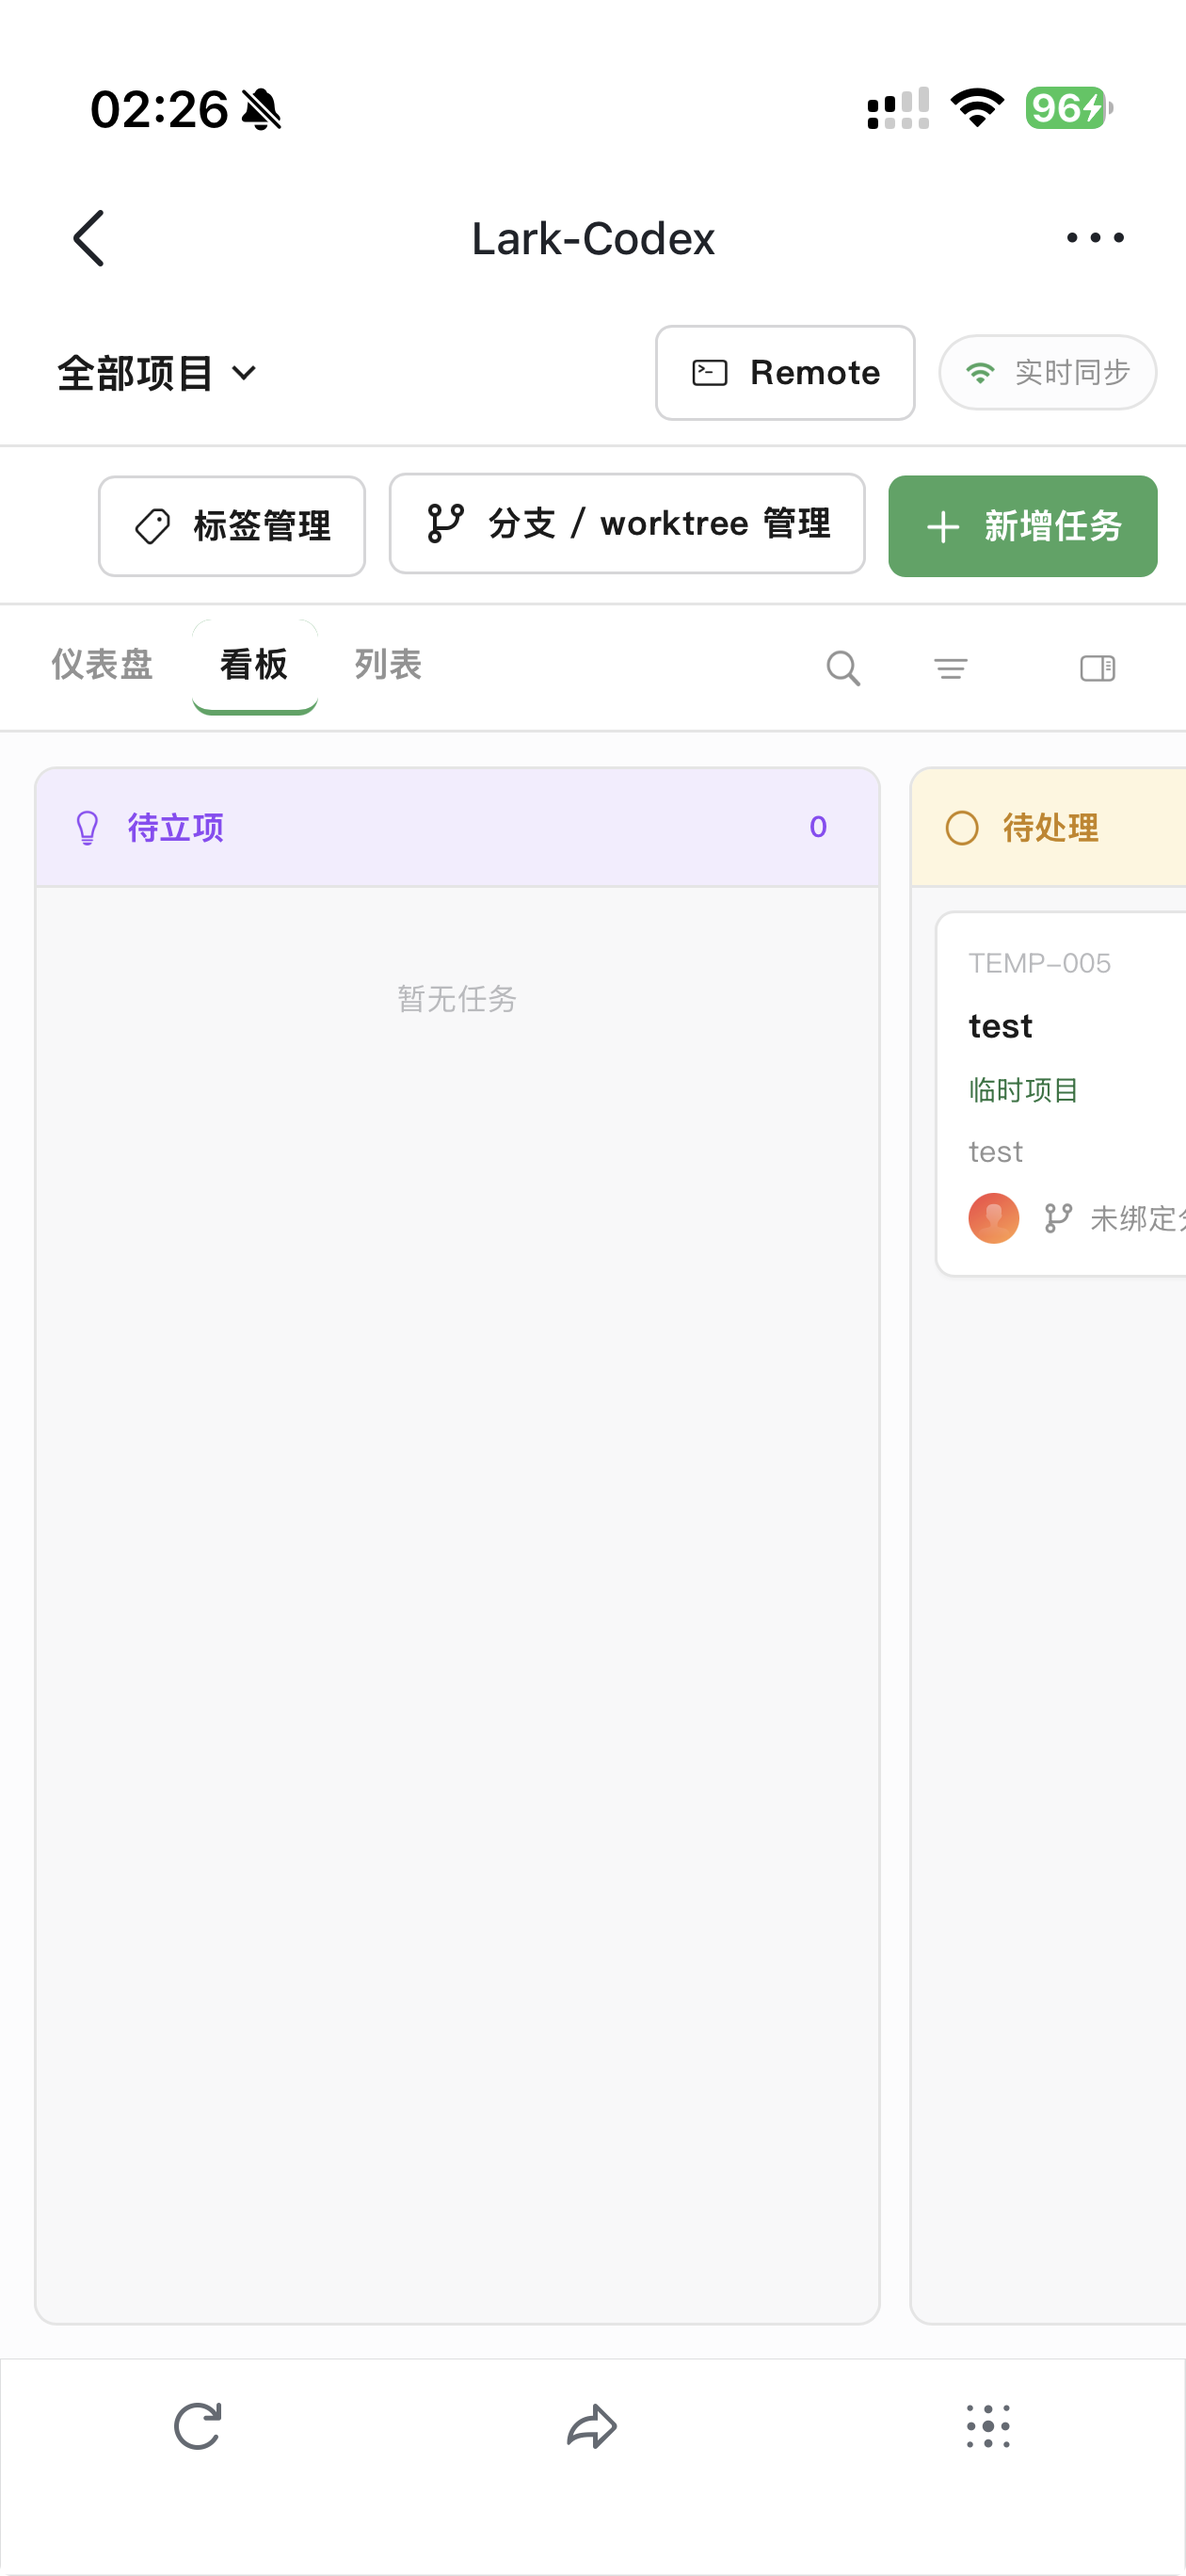
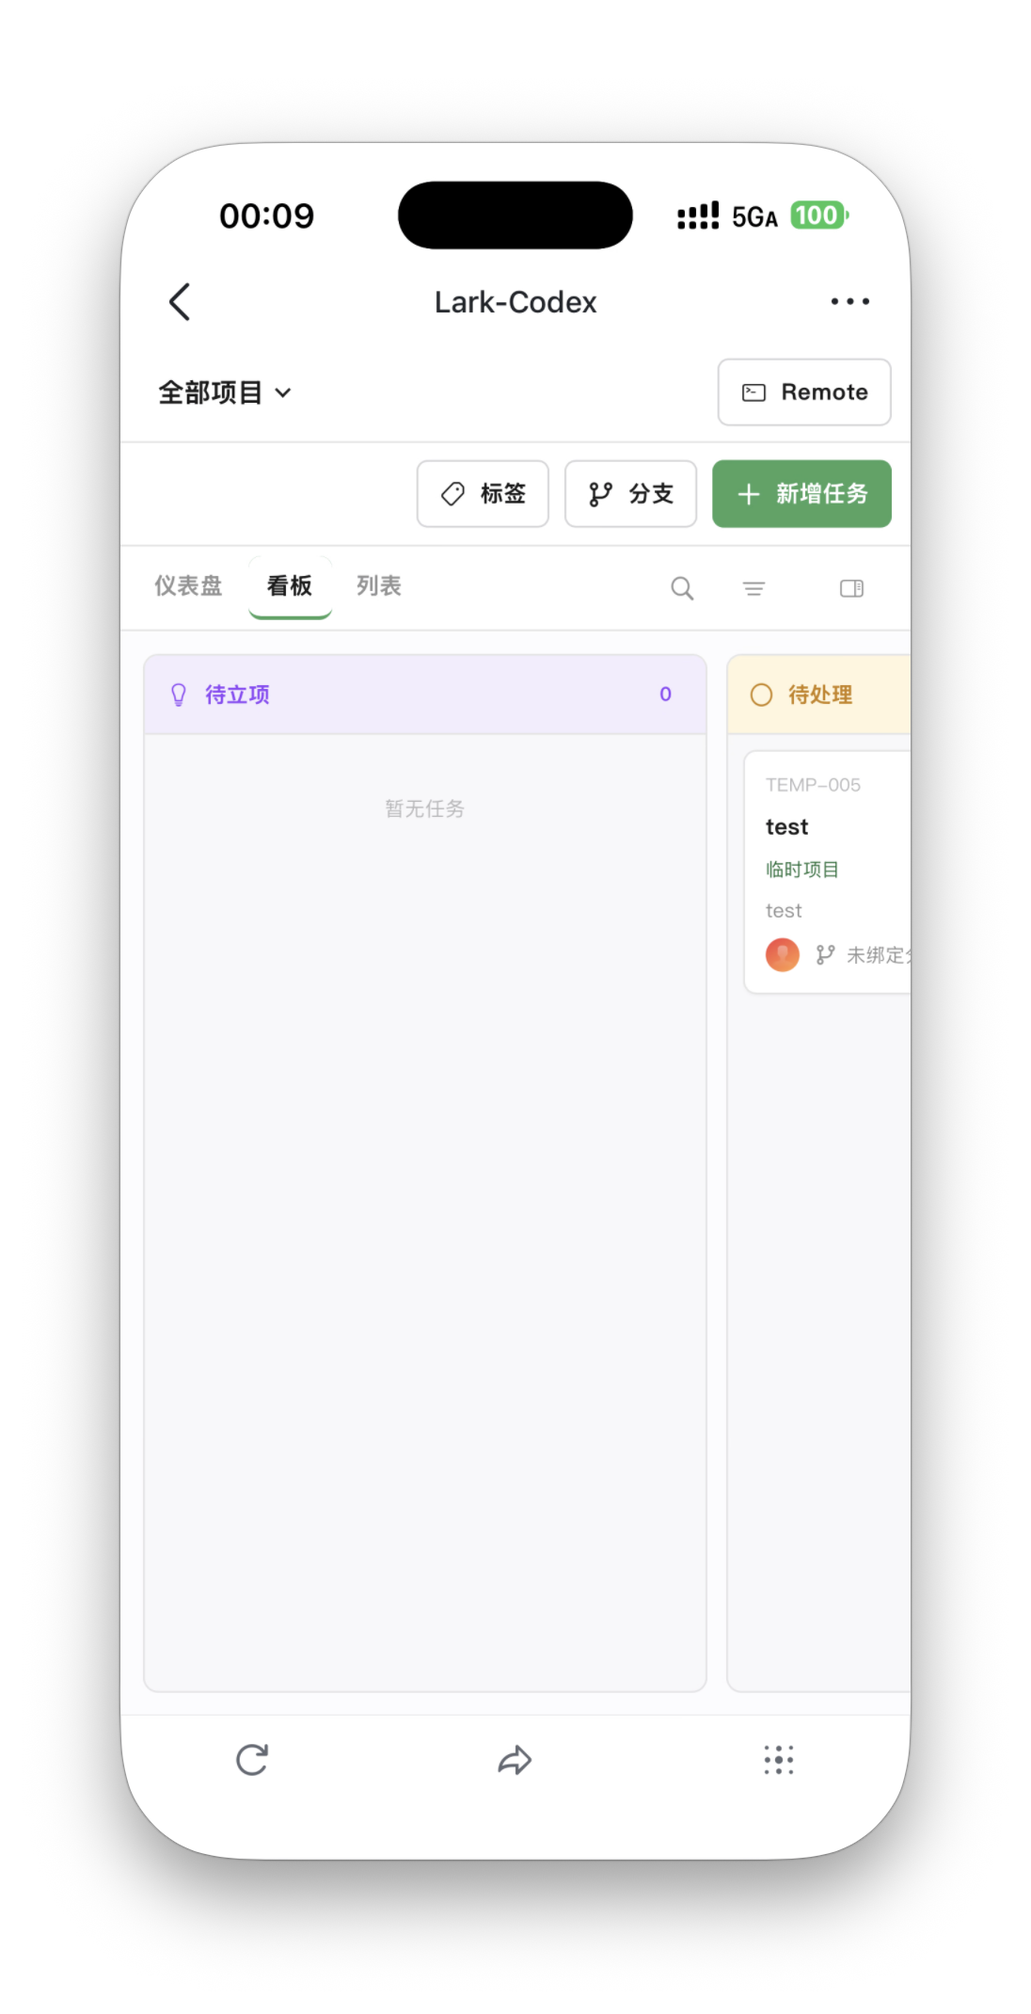
docs: organize compact Lark and Web screenshot galleries

diff --git a/README.en.md b/README.en.md
@@ -10,6 +10,17 @@ Lark-Codex connects a Lark task board to Codex running on your Mac. Organize pro
 
 Current release: **0.1.2 preview**, for **Apple Silicon Macs running macOS 13 or later**.
 
+## Access methods
+
+|            | Web                                            | Lark                                                 |
+| ---------- | ---------------------------------------------- | ---------------------------------------------------- |
+| Open in    | Desktop or mobile browser                      | Lark desktop or mobile client                        |
+| Identity   | Web account created locally                    | Lark user within the custom app's availability scope |
+| Setup      | HTTPS public entry point; no Lark app required | Lark custom app and public tunnel                    |
+| CLI writes | Web sign-in does not authorize CLI writes      | Pair with a real Lark user                           |
+
+Both methods can remain enabled and share the same board and local Codex.
+
 ## What you can do
 
 - Manage tasks by project using a dashboard, board, or list, with statuses, priorities, labels, comments, and attachments.
@@ -24,26 +35,30 @@ Local services and task data stay on your Mac. Lark sign-in, public access, and 
 
 ## Screenshots
 
-### Desktop task board
+### Lark · Desktop, mobile, and Remote
 
-View and manage tasks by status in the Lark desktop client.
+Manage tasks in the Lark custom app. Mobile Remote supports Codex conversations, streamed output, attachments, approvals, and code review.
 
-![Lark-Codex task board in Lark on desktop](docs/images/desktop-taskboard.png)
+<table>
+  <tr><th>Desktop board</th><th>Mobile board</th><th>Remote</th></tr>
+  <tr>
+    <td align="center"><a href="docs/images/desktop-taskboard.png"><img src="docs/images/desktop-taskboard.png" alt="Desktop board" width="340" /></a></td>
+    <td align="center"><a href="docs/images/mobile-taskboard.png"><img src="docs/images/mobile-taskboard.png" alt="Mobile board" height="200" /></a></td>
+    <td align="center"><a href="docs/images/mobile-remote.png"><img src="docs/images/mobile-remote.png" alt="Remote" height="200" /></a></td>
+  </tr>
+</table>
 
-### Mobile task board and Remote
+### Web · Desktop and mobile browsers
 
-Remote connects Lark on your phone to Codex on your Mac, drawing on the main interaction patterns of Codex Desktop. When both devices are in mainland China, using an frp server in mainland China can keep remote-access traffic on domestic routes and reduce cross-border relays, helping interactions feel responsive. Model requests still go from your local Codex to its configured service.
+Sign in over HTTPS with a locally created Web account, without Lark. Click a thumbnail to view the full image.
 
-- Browse conversations by project, start a new conversation, or continue an existing one.
-- View streaming results, handle approvals, and provide additional input.
-- Send attachments and images, view code diffs, and review changes.
-
-The mobile task board is on the left; the Remote entry screen is on the right.
-
-<p>
-  <img src="docs/images/mobile-taskboard.png" alt="Lark-Codex task board in Lark on mobile" width="48%" />
-  <img src="docs/images/mobile-remote.jpg" alt="Lark-Codex Remote entry screen in Lark on mobile" width="48%" />
-</p>
+<table>
+  <tr><th>Desktop browser</th><th>Mobile browser</th></tr>
+  <tr>
+    <td align="center"><a href="docs/images/web-desktop-redacted.png"><img src="docs/images/web-desktop-redacted.png" alt="Desktop browser" width="420" /></a></td>
+    <td align="center"><a href="docs/images/web-mobile-redacted.png"><img src="docs/images/web-mobile-redacted.png" alt="Mobile browser" height="220" /></a></td>
+  </tr>
+</table>
 
 ## Prerequisites
 
